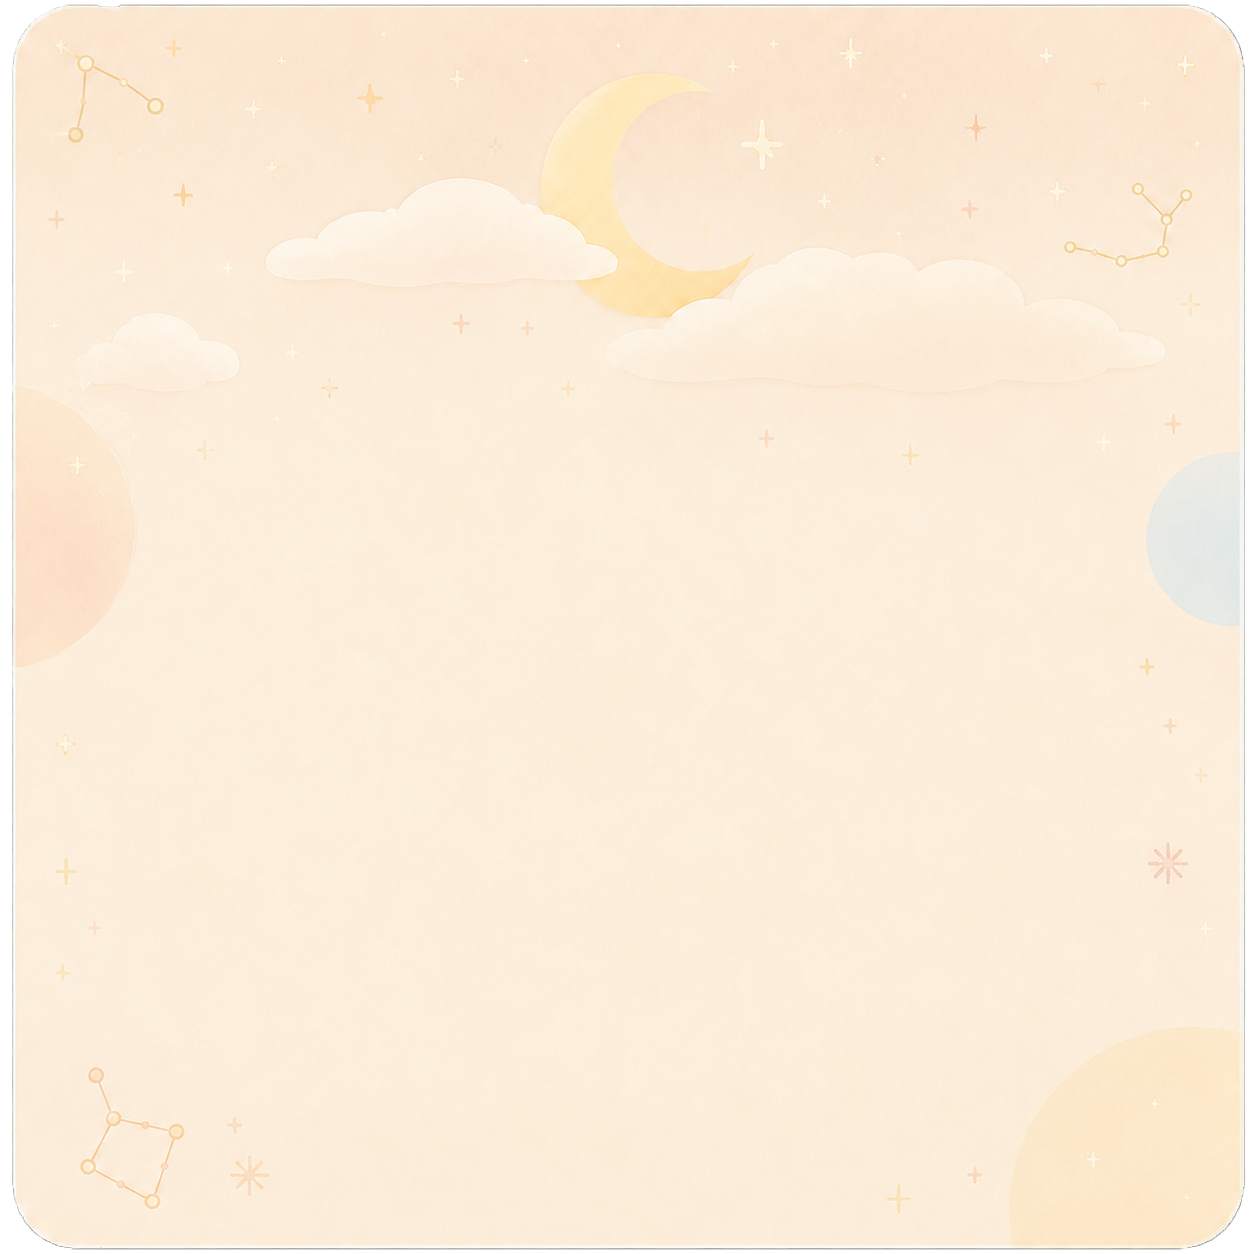
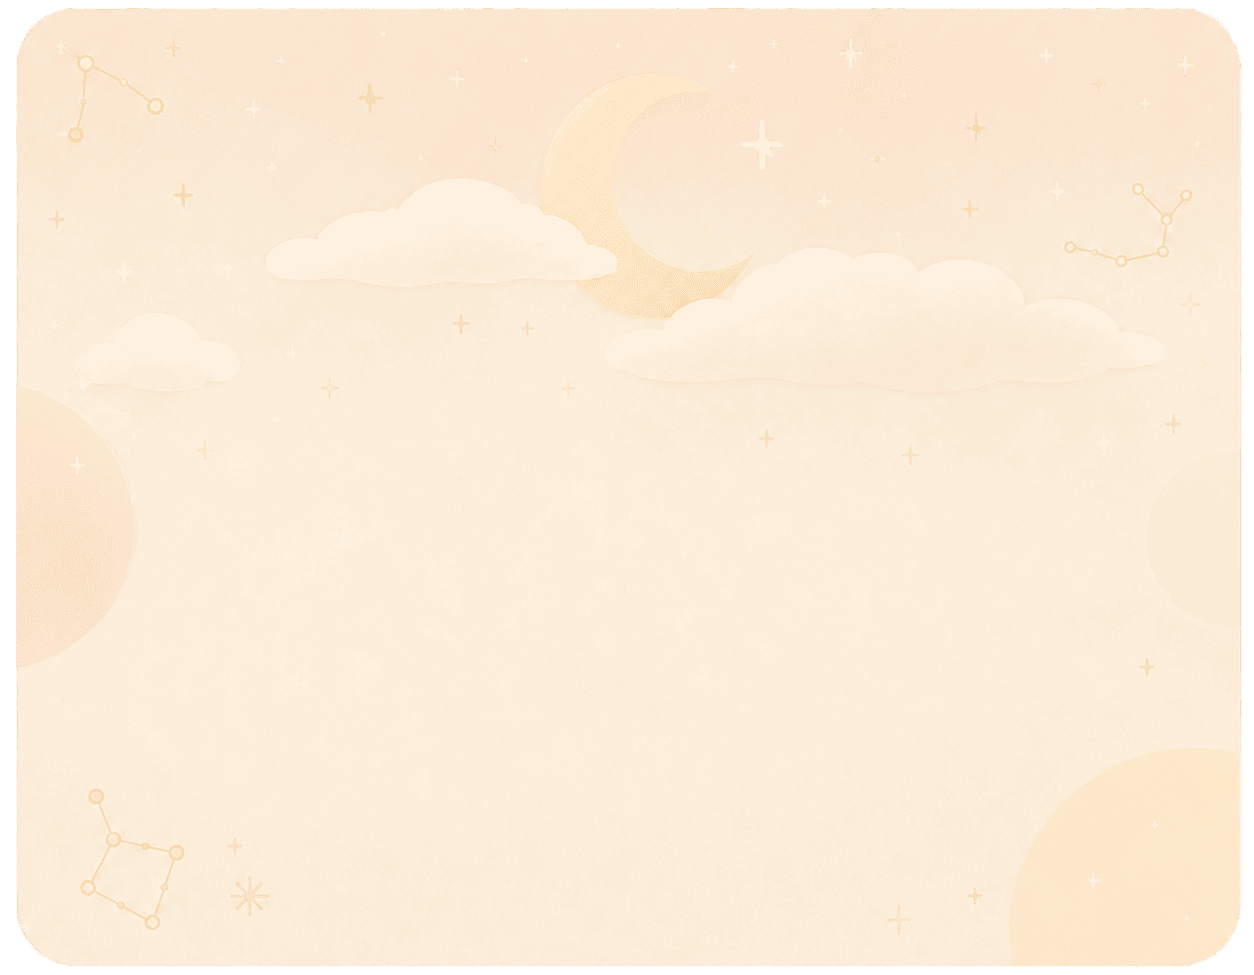
fix: 한마디 메모지에 밑줄 추가 · 글자 시작점 조정
- 메모지 이미지를 1:1에서 4:3 비율로 교체했다(1254 × 975, 1.5MB → 135KB).
  비율은 MEMO_ASPECT 상수로 두고 원본 크기를 주석에 적었다 — 이미지를 갈아끼울 때
  여기를 안 고치면 resizeMode="cover"가 가장자리를 잘라 달·구름이 사라진다.
- 글자 시작점을 메모지 높이의 44%로 내렸다. 위쪽 달·구름 띠와 겹치면 안 읽힌다.
- 편지지처럼 밑줄을 깔았다. 남은 높이를 줄 간격으로 나눠 개수를 정하므로
  화면 크기가 달라져도 맞는다. 선은 글자 줄 상자의 바닥에 놓아 획과 겹치지 않게 했고,
  굵기는 hairlineWidth라 해상도에 상관없이 얇게 나온다.

diff --git a/app/src/components/journal/SummaryStep.tsx b/app/src/components/journal/SummaryStep.tsx
@@ -12,6 +12,18 @@ import { colors, layout, radius, spacing } from '@/src/constants/design';
 /** 제목처럼 쓰는 한 줄이라 짧게 잡는다. 길면 달력·카드에서 잘린다. */
 export const MAX_SUMMARY = 30;
 
+/**
+ * background.png의 실제 비율(1254 × 975). 이미지를 갈아끼우면 여기도 같이 고쳐야 한다 —
+ * 안 맞추면 resizeMode="cover"가 가장자리를 잘라내 달·구름이 사라진다.
+ */
+const MEMO_ASPECT = 975 / 1254;
+
+/** 달·구름 띠가 끝나는 지점. 이보다 위에서 쓰기 시작하면 글자가 구름에 겹친다. */
+const TEXT_TOP_RATIO = 0.44;
+
+const LINE_HEIGHT = 29;
+const SIDE_PADDING = 28;
+
 interface SummaryStepProps {
   summary: string;
   onChange: (summary: string) => void;
@@ -20,7 +32,15 @@ interface SummaryStepProps {
 
 export function SummaryStep({ summary, onChange, onFocus }: SummaryStepProps) {
   const { width } = useWindowDimensions();
-  const memoSize = Math.min(width, layout.maxContentWidth) - spacing.xl * 2;
+  const memoWidth = Math.min(width, layout.maxContentWidth) - spacing.xl * 2;
+  const memoHeight = memoWidth * MEMO_ASPECT;
+
+  const textTop = Math.round(memoHeight * TEXT_TOP_RATIO);
+  // 남은 높이를 줄 간격으로 나눠 편지지처럼 밑줄을 깐다.
+  const ruleCount = Math.max(
+    1,
+    Math.floor((memoHeight - textTop - spacing.md) / LINE_HEIGHT),
+  );
 
   return (
     <View style={styles.container}>
@@ -31,17 +51,33 @@ export function SummaryStep({ summary, onChange, onFocus }: SummaryStepProps) {
 
       <ImageBackground
         source={require('@/assets/images/background.png')}
-        style={[styles.memo, { width: memoSize, height: memoSize }]}
+        style={[styles.memo, { width: memoWidth, height: memoHeight }]}
         imageStyle={styles.memoImage}
         resizeMode="cover"
       >
+        {/* 밑줄은 글자 줄 아래에 놓는다 — 줄 상자의 바닥이라 글자와 겹치지 않는다. */}
+        <View pointerEvents="none" style={StyleSheet.absoluteFill}>
+          {Array.from({ length: ruleCount }, (_, i) => (
+            <View
+              key={i}
+              style={[
+                styles.rule,
+                { top: textTop + LINE_HEIGHT * (i + 1) },
+              ]}
+            />
+          ))}
+        </View>
+
         <TextInput
           value={summary}
           onChangeText={(v) => onChange(v.slice(0, MAX_SUMMARY))}
           onFocus={onFocus}
           placeholder="생각보다 괜찮았던 하루"
           placeholderTextColor="rgba(90,70,54,0.4)"
-          style={styles.input}
+          style={[
+            styles.input,
+            { marginTop: textTop, height: ruleCount * LINE_HEIGHT },
+          ]}
           maxLength={MAX_SUMMARY}
           returnKeyType="done"
           multiline
@@ -73,18 +109,25 @@ const styles = StyleSheet.create({
   },
   memo: {
     alignSelf: 'center',
-    paddingHorizontal: spacing.xxl,
-    paddingTop: spacing.xxl,
+    paddingHorizontal: SIDE_PADDING,
   },
   memoImage: {
     borderRadius: radius.lg,
   },
+  rule: {
+    position: 'absolute',
+    left: SIDE_PADDING,
+    right: SIDE_PADDING,
+    height: StyleSheet.hairlineWidth,
+    backgroundColor: 'rgba(90,70,54,0.16)',
+  },
   input: {
     fontSize: 19,
-    lineHeight: 29,
+    lineHeight: LINE_HEIGHT,
     fontFamily: 'NotoSansKR_400Regular',
     color: colors.ink,
     padding: 0,
+    textAlignVertical: 'top',
   },
   meta: {
     flexDirection: 'row',
